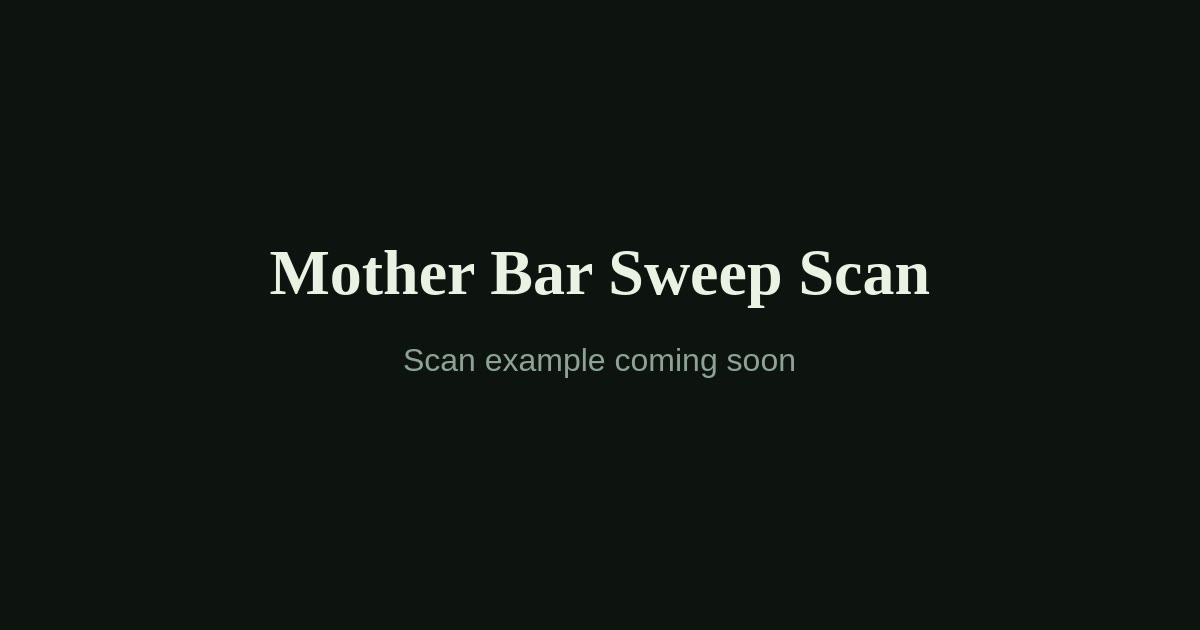
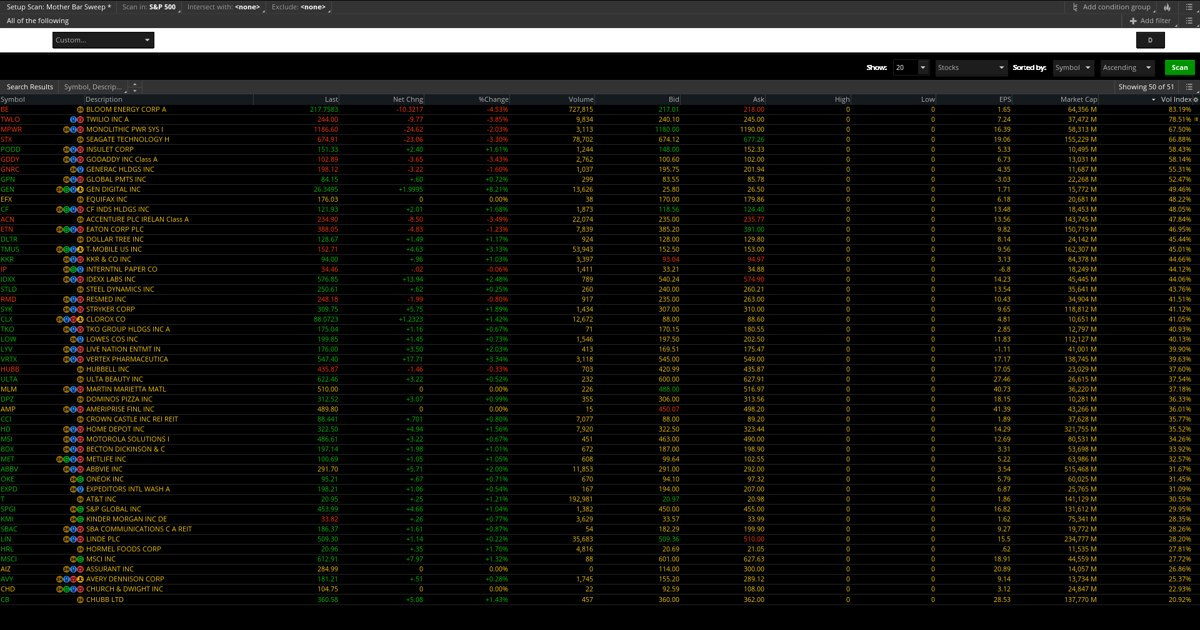
Show the Stock Hacker results for the sweep scan.
Replace the coming-soon placeholder with the S&P 500 scan screenshot, and use that image in the Product schema.

diff --git a/src/lib/studies/catalog.ts b/src/lib/studies/catalog.ts
@@ -25,11 +25,8 @@ export const MOTHER_BAR_LEVELS_INTRADAY_IMAGE = "/mother-bar-levels-15m.webp";
 export const MOTHER_BAR_LEVELS_OG_PATH = "/og-mother-bar-levels.jpg";
 export const MOTHER_BAR_SWEEP_SCAN_OG_PATH = "/og-mother-bar-sweep-scan.jpg";
 
-/**
- * Public path for a scan screenshot. Null keeps the on-page placeholder.
- * Swap this for a path under public/ when a real scan image exists.
- */
-export const MOTHER_BAR_SWEEP_SCAN_IMAGE: string | null = null;
+/** Public path for the Stock Hacker results screenshot. */
+export const MOTHER_BAR_SWEEP_SCAN_IMAGE = "/mother-bar-sweep-scan-results.webp";
 
 export const STUDY_FAQ = [
   {
@@ -99,6 +96,7 @@ export type StudyImage = {
   alt: string;
   width: number;
   height: number;
+  caption?: string;
 };
 
 export type StudyPageCopy = {
@@ -187,8 +185,16 @@ export const MOTHER_BAR_SWEEP_SCAN_PAGE_COPY: StudyPageCopy = {
   install: SCAN_INSTALL,
   faqs: SCAN_FAQ,
   downloadLabel: "Download MotherBarSweepScan.ts",
-  images: [],
-  placeholder: "Scan example coming soon",
+  images: [
+    {
+      src: MOTHER_BAR_SWEEP_SCAN_IMAGE,
+      alt: "Mother Bar Sweep Scan results in thinkorswim Stock Hacker, S&P 500",
+      width: 1920,
+      height: 988,
+      caption: "Example of scan output. Not a list of picks or a recommendation.",
+    },
+  ],
+  placeholder: null,
   ogPath: MOTHER_BAR_SWEEP_SCAN_OG_PATH,
   relatedHref: "/tools/mother-bar-levels",
   relatedLabel: "Mother Bar Levels — the thinkorswim mother bar indicator",

diff --git a/src/lib/studies/catalog.test.ts b/src/lib/studies/catalog.test.ts
@@ -34,7 +34,11 @@ describe("mother bar products", () => {
     assert.equal(MOTHER_BAR_BUNDLE.forSale, false);
     assert.equal(MOTHER_BAR_BUNDLE.priceUsd, 39);
     assert.equal(courseOffer(MOTHER_BAR_BUNDLE.id), null);
-    assert.equal(MOTHER_BAR_SWEEP_SCAN_IMAGE, null);
+    assert.equal(MOTHER_BAR_SWEEP_SCAN_IMAGE, "/mother-bar-sweep-scan-results.webp");
+    assert.equal(MOTHER_BAR_SWEEP_SCAN_PAGE_COPY.placeholder, null);
+    assert.equal(MOTHER_BAR_SWEEP_SCAN_PAGE_COPY.images[0]?.width, 1920);
+    assert.equal(MOTHER_BAR_SWEEP_SCAN_PAGE_COPY.images[0]?.height, 988);
+    assert.match(MOTHER_BAR_SWEEP_SCAN_PAGE_COPY.images[0]?.caption ?? "", /Not a list of picks/);
     assert.match(BUNDLE_LINE, /\$39/);
     assert.match(BUNDLE_LINE, /coming soon/);
 
@@ -44,6 +48,8 @@ describe("mother bar products", () => {
       "/mother-bar-levels-daily.webp",
       "/mother-bar-levels-15m.webp",
       "/og-mother-bar-levels.jpg",
+      "/mother-bar-sweep-scan-results.webp",
+      "/og-mother-bar-sweep-scan.jpg",
     ]) {
       assert.ok(names.includes(asset), asset);
     }

diff --git a/src/lib/seo.test.ts b/src/lib/seo.test.ts
@@ -421,12 +421,15 @@ describe("news route head", () => {
       pageUrl("/mother-bar-levels-daily.webp"),
       pageUrl("/mother-bar-levels-15m.webp"),
     ]);
-    assert.equal(
-      meta(motherBarSweepScanPage(), "og:image", "property").endsWith(
-        "/og-mother-bar-sweep-scan.jpg",
-      ),
-      true,
-    );
+    const scanOg = pageUrl("/og-mother-bar-sweep-scan.jpg");
+    assert.equal(meta(motherBarSweepScanPage(), "og:image", "property"), scanOg);
+    const scanProduct = JSON.parse(
+      routeHead(motherBarSweepScanPage()).scripts?.[0]?.children ?? "{}",
+    ) as { "@graph": Array<{ "@type": string; image?: string[] }> };
+    assert.deepEqual(scanProduct["@graph"].find((node) => node["@type"] === "Product")?.image, [
+      scanOg,
+      pageUrl("/mother-bar-sweep-scan-results.webp"),
+    ]);
     assert.doesNotMatch(
       JSON.stringify(routeHead(motherBarLevelsPage())),
       /spy_daily_mother_bar_levels\.png/,

diff --git a/src/components/study-product-page.tsx b/src/components/study-product-page.tsx
@@ -111,6 +111,11 @@ export function StudyProductPage({
                 height={image.height}
                 className="w-full"
               />
+              {image.caption ? (
+                <figcaption className="px-4 py-3 text-sm text-pretty text-muted">
+                  {image.caption}
+                </figcaption>
+              ) : null}
             </figure>
           ))}
           {copy.placeholder ? (
